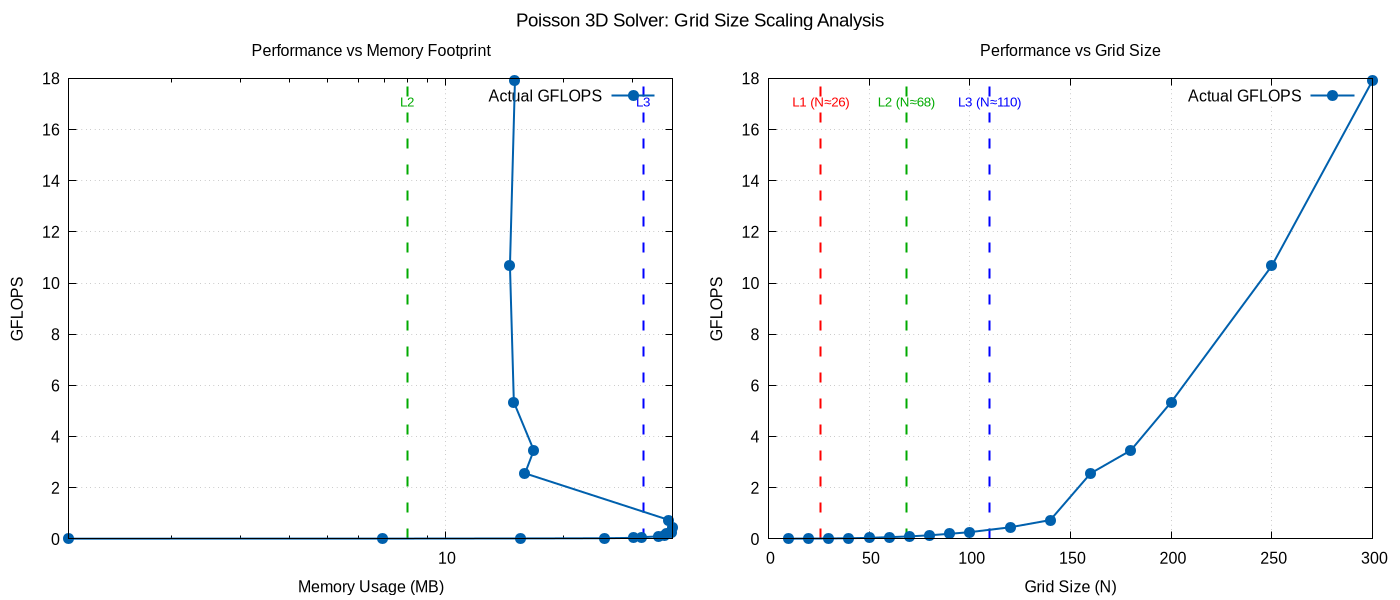
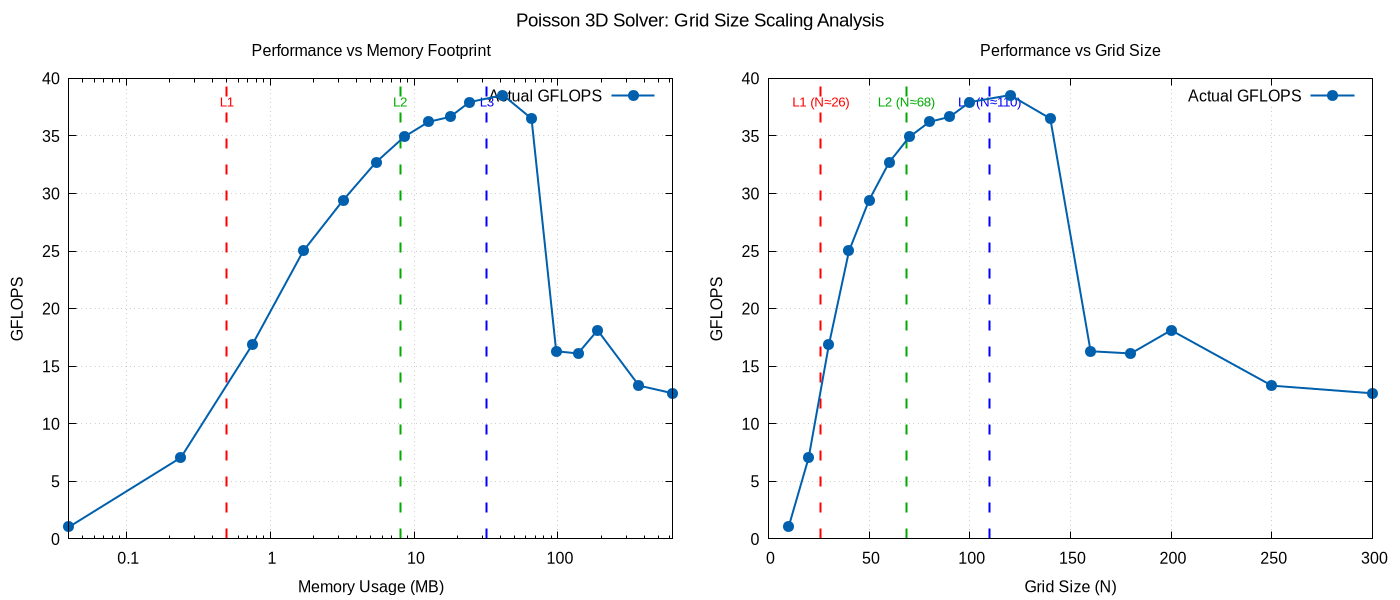
fixed plotting

diff --git a/Assignment-2/timing.c b/Assignment-2/timing.c
@@ -141,7 +141,7 @@ void benchmark_grid_sizes(solver_func_t solver, int iter_max, double tolerance,
     fprintf(fp2, "# N UpdatesPerSecond Time_s\n");
 
     printf("Grid Scaling (threads=%d)\n", num_threads);
-    printf("   N | Memory(MB) | GFLOPS | Time(s)\n | Updates/s\n");
+    printf("   N | Memory(MB) | GFLOPS | Time(s)  | MUpdates/s\n");
 
     for (int i = 0; i < num_sizes; i++) {
         int N = grid_sizes[i] + 2;
@@ -174,11 +174,11 @@ void benchmark_grid_sizes(solver_func_t solver, int iter_max, double tolerance,
         long long interior = (long long)(N - 2) * (N - 2) * (N - 2);
         double updates_per_sec = (interior * perf.iterations) / perf.elapsed;
 
-        printf("%4d | %10.2f | %6.3f | %7.4f | %.3e\n",
-               grid_sizes[i], memory_mb, perf.gflops, perf.elapsed, updates_per_sec);
+        printf("%4d | %10.2f | %6.3f | %7.4f | %10.2f\n",
+               grid_sizes[i], memory_mb, perf.gflops, perf.elapsed, updates_per_sec / 1.0e6);
         fprintf(fp, "%d %.2f %.3f %.6f\n",
                 grid_sizes[i], memory_mb, perf.gflops, perf.elapsed);
-        fprintf(fp2, "%d %.6e %.6f\n",
+        fprintf(fp2, "%d %.0f %.6f\n",
                     grid_sizes[i], updates_per_sec, perf.elapsed);
 
         free_3d(u);

diff --git a/Assignment-2/main.c b/Assignment-2/main.c
@@ -71,7 +71,6 @@ main(int argc, char *argv[]) {
         exit(-1);
     }
 
-    // Set cache sizes for AMD Ryzen 7 7745HX (L1=32KB, L2=1MB, L3=32MB)
     set_cache_sizes(768, 6144, 61440);
 
     // our code
